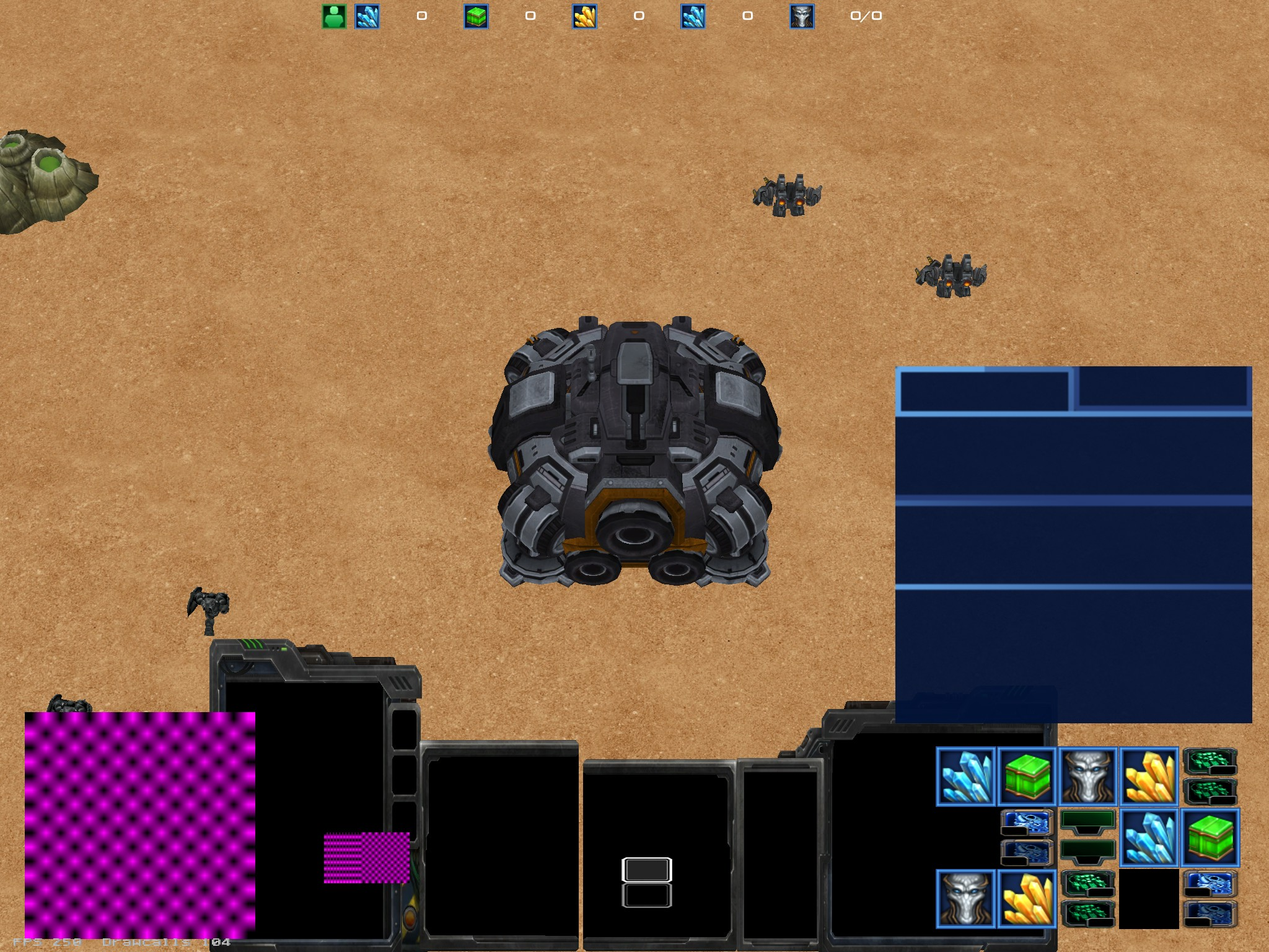
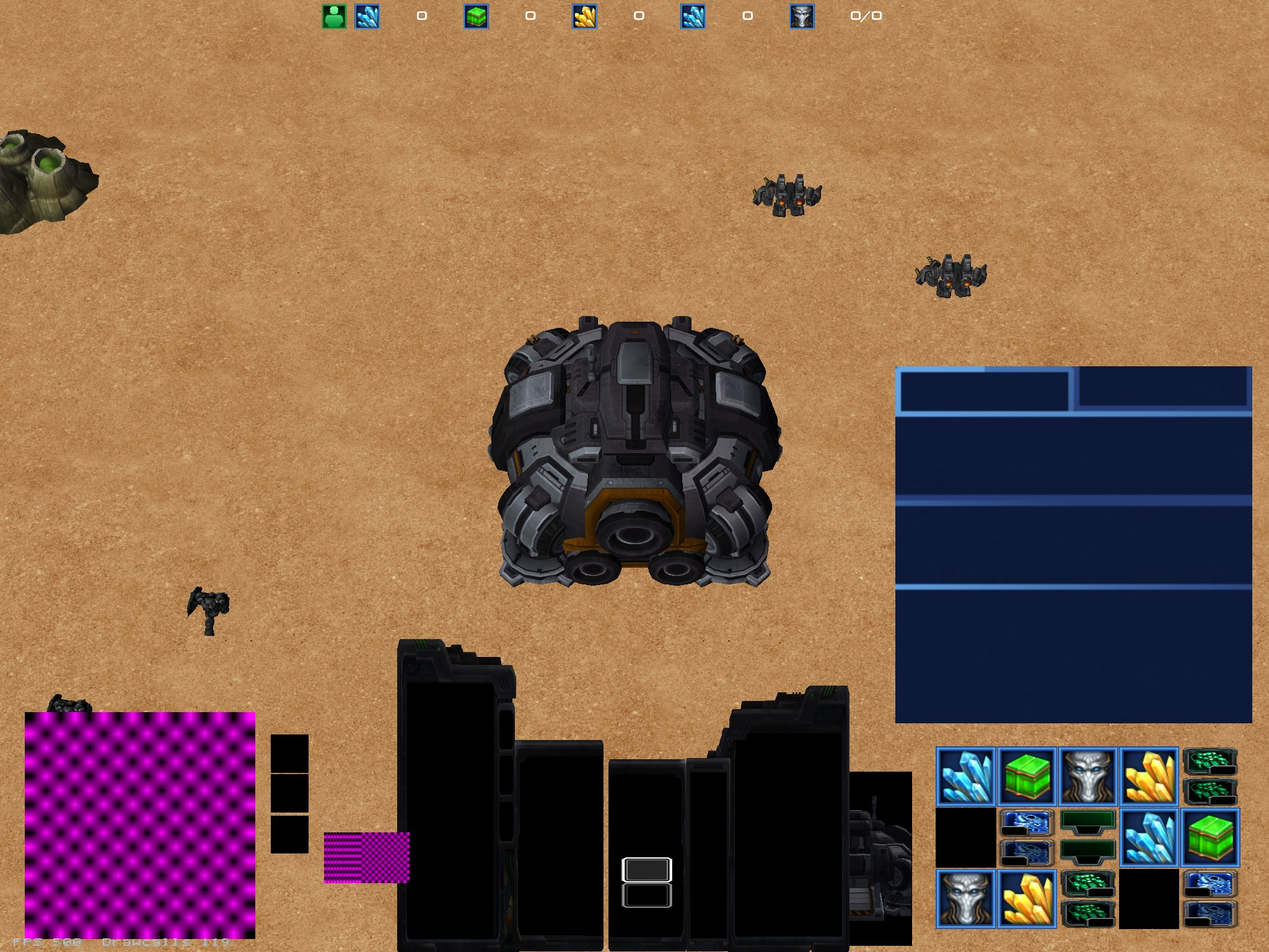
sc2: fix console chrome horizontal squish — s_x = 3 * s_y
With s_x = 1.5f (fixed) and s_y = radius*1.05 ≈ 0.567, the horizontal
ortho was 1.5/0.567 ≈ 2.65× wider than the vertical, squishing each
section to ~38% of screen width.

The correct derivation: each model fills ±s_y in X (same scale as Y to
preserve geometry proportions).  Three sections tile the view, so total
half-span = 3 × s_y.  Setting s_x = 3 × s_y restores each section to
its natural 1/3-of-screen width with undistorted proportions.

Update screenshot.

diff --git a/games/starcraft-2/renderer/r_game.c b/games/starcraft-2/renderer/r_game.c
@@ -399,7 +399,7 @@ bool R_GameExtractEntityCamera(renderEntity_t const *entity, float aspect, viewD
          * Camera is fixed at world X=0; subtracting origin.x in model-space
          * cancels the entity translation: world_x = -origin.x + origin.x = 0. */
         float s_y   = radius * 1.05f;
-        float s_x   = 1.5f;
+        float s_x   = 3.0f * s_y;  /* 3 sections: each fills s_y wide, total half-span = 3*s_y */
         float dist  = 5.0f;
         float tgt_z = s_y / aspect;
         VECTOR3 eye = { -entity->origin.x, center.y - dist, tgt_z };
